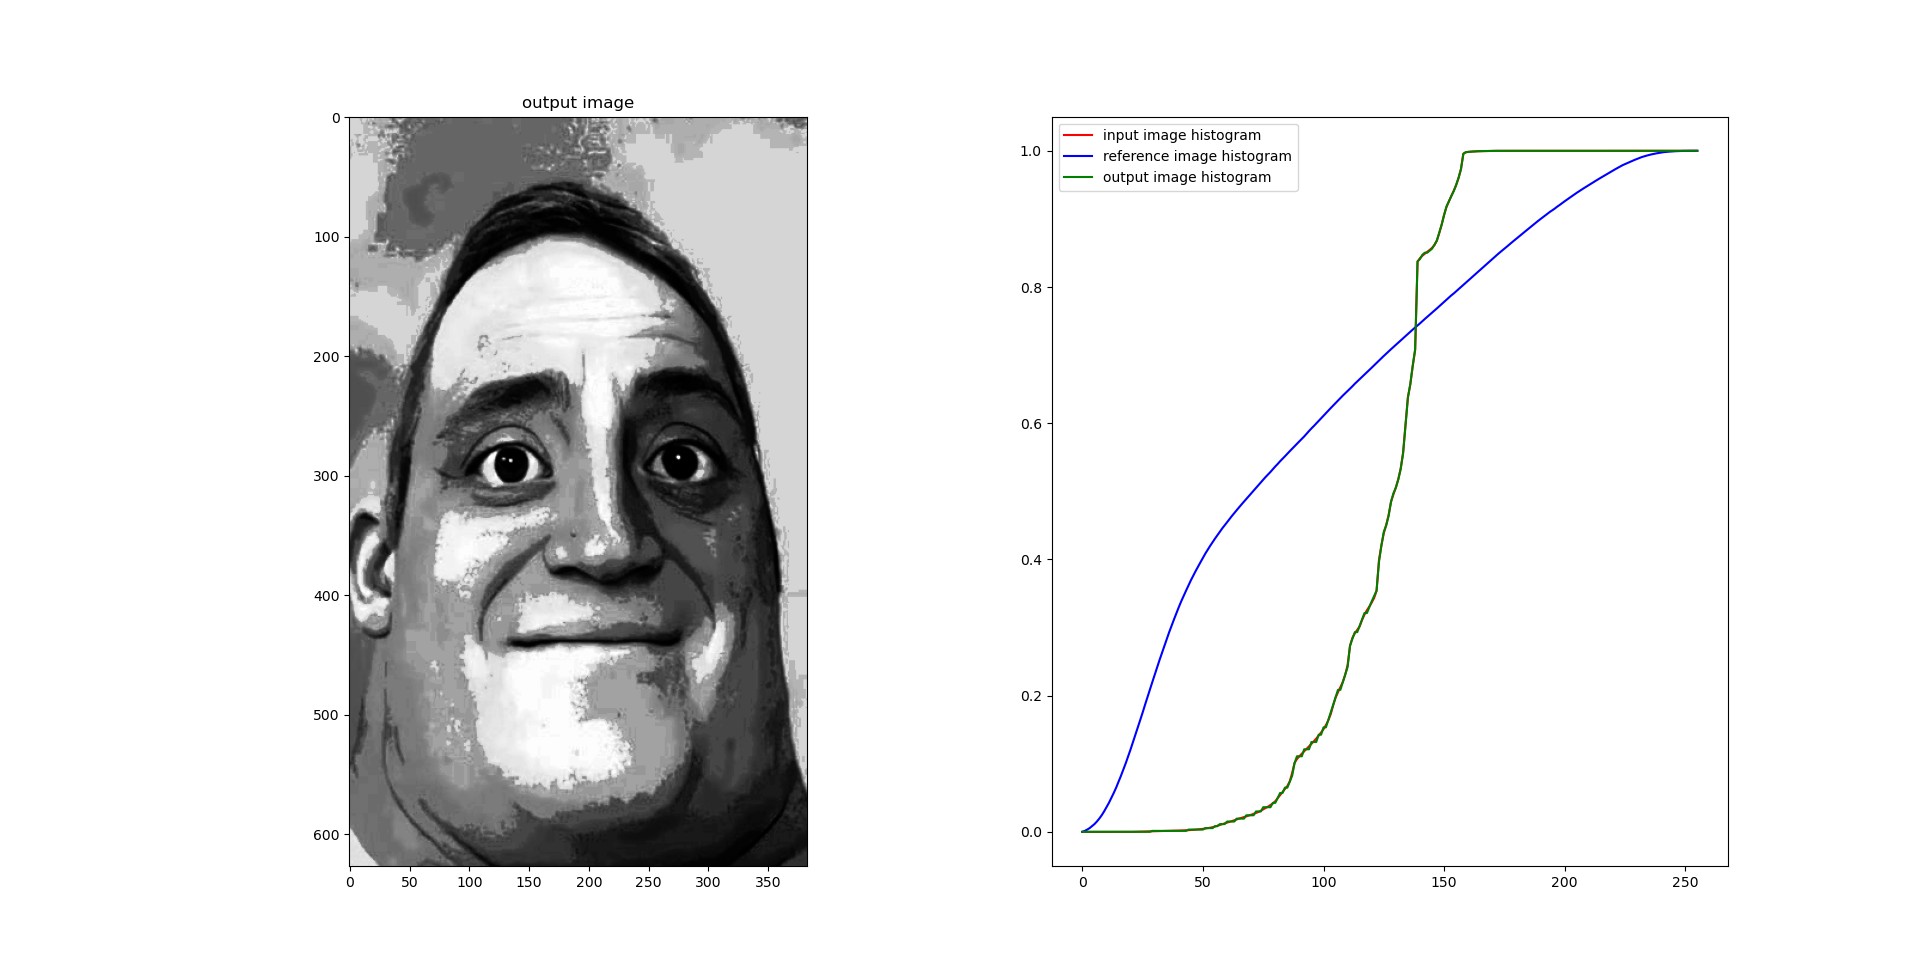
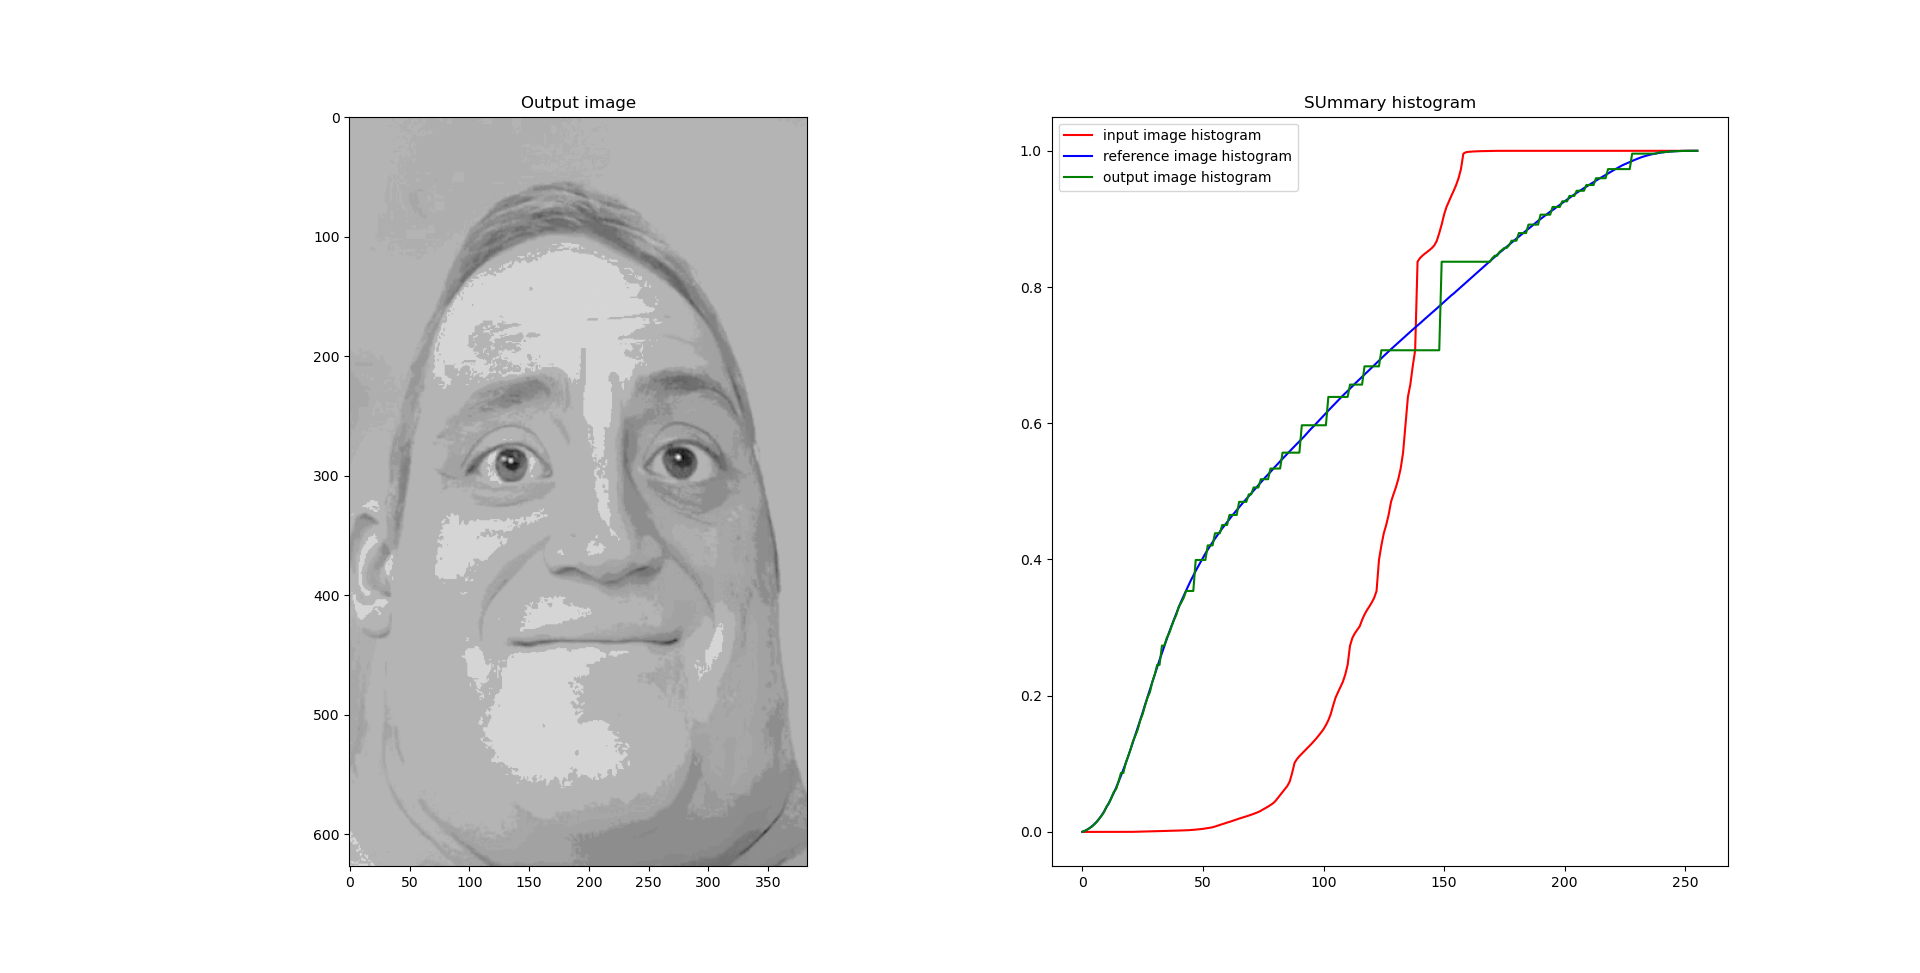
modify the nearest_cdf function in histo-spec

diff --git a/histogram-spec.py b/histogram-spec.py
@@ -1,4 +1,5 @@
 from cProfile import label
+from tkinter import N
 from turtle import color
 import numpy as np 
 import matplotlib.pyplot as plt 
@@ -41,8 +42,8 @@ def nearest(input_val, input_list1):
 
 def nearest_cdf(input_list0, input_list1):
     num = np.zeros(256).astype(np.float32)
-    for i, n in enumerate(input_list0):
-        num[i] = nearest(n, input_list1)
+    for i, n in enumerate(input_list1):
+        num[i] = nearest(n, input_list0)
     return num
 
 x_axis = range(0,256)
@@ -63,21 +64,24 @@ plt.title("input image")
 plt.subplot(222)
 plt.plot(x_axis, cdf_hist0, color="r")
 plt.legend(['input image histogram'])
+plt.title('Input image histogram')
 plt.subplot(223)
 plt.imshow(img1)
 plt.title("reference image")
-plt.legend(['reference image histogram'])
 plt.subplot(224)
-plt.plot(x_axis, cdf_hist1)
+plt.plot(x_axis, cdf_hist1, color="b")
+plt.legend(['reference image histogram'])
+plt.title('Reference image histogram')
 plt.show()
 
 plt.subplot(121)
 plt.imshow(new_pixel)
-plt.title("output image")
+plt.title("Output image")
 plt.subplot(122)
 plt.plot(x_axis, cdf_hist0, color='r')
 plt.plot(x_axis, cdf_hist1, color="b")
 plt.plot(x_axis, cdf_hist, color='g')
 plt.legend(['input image histogram','reference image histogram','output image histogram'] )
+plt.title("SUmmary histogram")
 plt.show()
 
